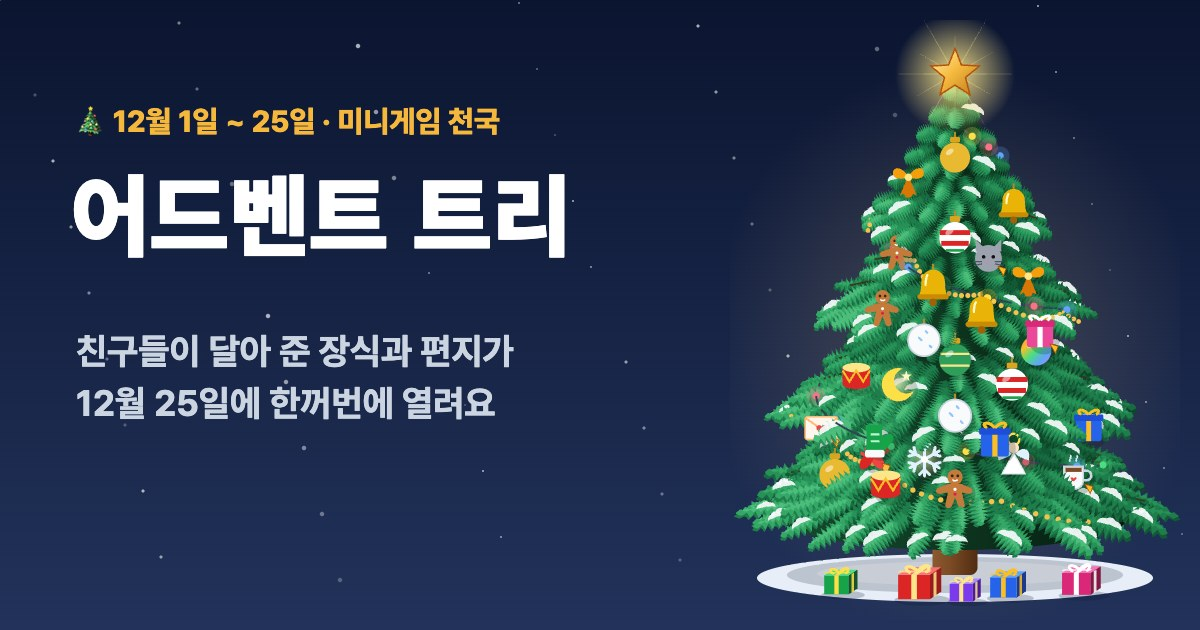
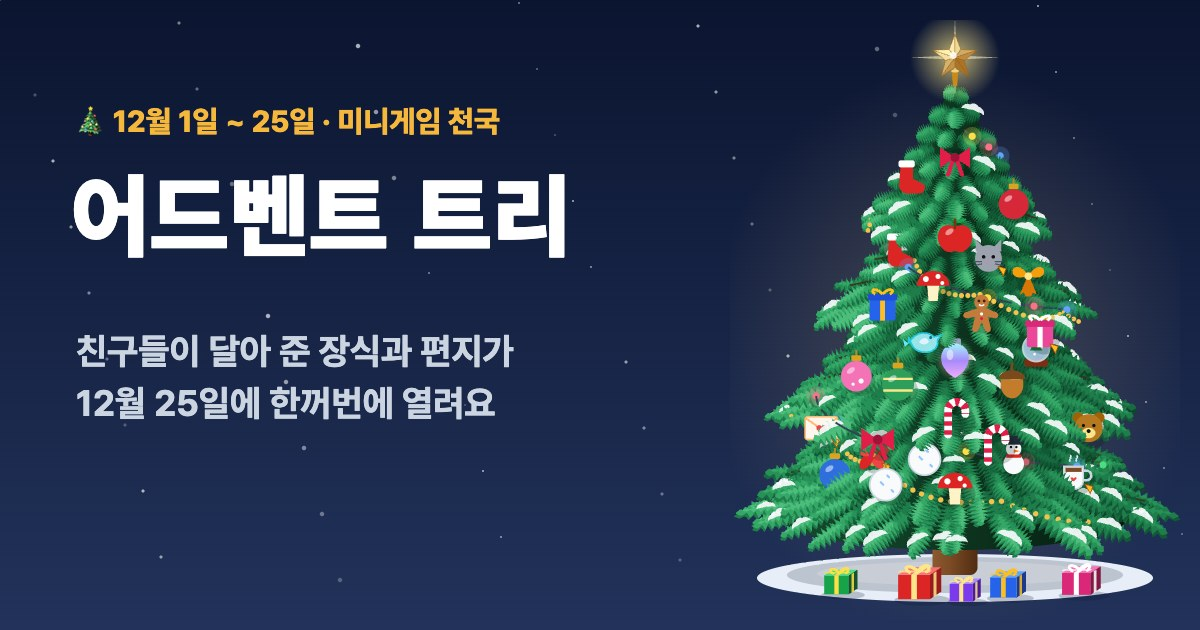
feat(advent-tree): 꼭대기 별을 입체 금속 별로 (면마다 빛·그늘, 받침, 돌리면 같이 돎)
- 평면 별 스티커 대신 면 10개에 빛·그늘이 다른 입체 별 + 꼭대기에 꽂는 금빛 받침
- 다 자란 뒤 안 켜진 별(점선)은 차분한 샴페인색 별로
- 켜진 별: 크게 도는 빛줄기 대신 부드러운 빛 + 천천히 숨 쉬는 십자 반짝임
- 트리를 돌리면 별도 같이 돌아 옆에서는 좁아 보임
- 링크 미리보기 이미지 다시 생성

diff --git a/games/advent-tree.html b/games/advent-tree.html
@@ -1563,10 +1563,43 @@
             return '<circle cx="143" cy="345" r="1.8" fill="#2b1708"/><circle cx="157" cy="345" r="1.8" fill="#2b1708"/><path d="M145 351q5 3.6 10 0" stroke="#2b1708" stroke-width="2" fill="none" stroke-linecap="round"/>';
         }
 
-        function starSvg(star, [sx, sy]) {
-            if (star === 2) return `<circle cx="${sx}" cy="${sy}" r="40" fill="url(#gStarGlow)"/><path d="${starPath(17, 7.4)}" transform="translate(${sx} ${sy})" fill="url(#gGold)" stroke="#b45309" stroke-width="1"/>`;
-            if (star === 1) return `<path d="${starPath(15, 6.5)}" transform="translate(${sx} ${sy})" fill="none" stroke="#fde68a" stroke-width="1.6" stroke-dasharray="3 3" opacity=".8"/>`;
-            return '';
+        // 꼭대기 별: 면마다 빛·그늘이 다른 입체 별 + 꼭대기에 꽂는 금빛 받침.
+        // 1 = 다 자랐지만 아직 안 켜짐(차분한 샴페인색), 2 = 크리스마스에 켜짐(금빛 + 부드러운 빛 + 반짝임)
+        const mixHex = (a, b, t) => `#${[0, 2, 4].map((i) => Math.round(parseInt(a.slice(1 + i, 3 + i), 16) * (1 - t) + parseInt(b.slice(1 + i, 3 + i), 16) * t).toString(16).padStart(2, '0')).join('')}`;
+        const STAR_BODY = {};
+        function starBody(star) {
+            if (STAR_BODY[star]) return STAR_BODY[star];
+            const lit = star === 2;
+            const [dk, lt] = lit ? ['#9a5b0c', '#fff4b8'] : ['#6f6146', '#ece3cb'];
+            const R = 15.5;
+            const r = 6.6;
+            const pt = (deg, rad) => [Math.cos((deg * Math.PI) / 180) * rad, Math.sin((deg * Math.PI) / 180) * rad];
+            const f1 = (x) => Math.round(x * 10) / 10;
+            let faces = '';
+            for (let i = 0; i < 5; i++) {
+                const a = -90 + i * 72;
+                const [ox, oy] = pt(a, R);
+                [[a - 36, a - 14], [a + 36, a + 14]].forEach(([ia, na]) => {
+                    const [ix, iy] = pt(ia, r);
+                    // 왼쪽 위에서 빛이 온다
+                    const shade = 0.5 + 0.5 * Math.cos(((na + 130) * Math.PI) / 180);
+                    faces += `<path d="M0 0L${f1(ix)} ${f1(iy)}L${f1(ox)} ${f1(oy)}Z" fill="${mixHex(dk, lt, 0.15 + 0.85 * shade)}"/>`;
+                });
+            }
+            const stem = `<path d="M-2.2 9L2.2 9 1.4 19-1.4 19Z" fill="${lit ? '#c98a1c' : '#8a7a58'}"/><ellipse cy="9" rx="2.6" ry="1" fill="${lit ? '#f5d27a' : '#b9ab88'}"/>`;
+            const body = `${stem}<g stroke="${dk}" stroke-width=".5" stroke-opacity=".55" stroke-linejoin="round">${faces}</g>`
+                + `<circle cx="-1.2" cy="-1.4" r="${lit ? 2.4 : 1.6}" fill="#fff" opacity="${lit ? 0.85 : 0.5}"/>`;
+            STAR_BODY[star] = body;
+            return body;
+        }
+        // 반짝임: 가늘고 긴 십자 빛
+        const STAR_FLARE = 'M-30 0L0-1.4 30 0 0 1.4ZM0-26L1.2 0 0 26-1.2 0Z';
+        // 트리를 돌리면 별도 같이 돌아서 옆에서 보면 좁아 보인다
+        const starTurn = (rot) => 0.42 + 0.58 * Math.abs(Math.cos((rot * Math.PI) / 180));
+        function starSvg(star, [sx, sy], rot = 0) {
+            if (!star) return '';
+            const glow = star === 2 ? `<circle cx="${sx}" cy="${sy}" r="30" fill="url(#gStarGlow)" opacity=".8"/><path d="${STAR_FLARE}" transform="translate(${sx} ${sy})" fill="#fff7d1" opacity=".55"/>` : '';
+            return `${glow}<g transform="translate(${sx} ${sy}) scale(${Math.round(starTurn(rot) * 100) / 100} 1)">${starBody(star)}</g>`;
         }
 
         const GIFT_TAG = '<path d="M6 6l5 1.4-1.6 4.4z" fill="#fbbf24" stroke="#b45309" stroke-width=".5"/>';
@@ -1755,22 +1788,13 @@
                     const d = Math.cos(t) * R;
                     return { x: 150 + Math.sin(t) * R, y: 369 + d * 0.12, d, sc: b.s * (0.78 + 0.22 * f) * (1 + d / 800), c: b.c };
                 }).sort((a, b) => a.d - b.d);
-                return { f, s, th, items, back: boxes.filter((b) => b.d <= 0), front: boxes.filter((b) => b.d > 0), star: P(150, 36), glow: v.stage >= 3 || v.lights };
+                return { f, s, th, items, back: boxes.filter((b) => b.d <= 0), front: boxes.filter((b) => b.d > 0), star: P(150, 25), glow: v.stage >= 3 || v.lights };
             }
 
             const n1 = (x) => Math.round(x * 10) / 10;
             const n2 = (x) => Math.round(x * 100) / 100;
             const conePath = ([ap, b, hw], k = 1) => `M150 ${ap}L${n1(150 + hw * k)} ${b}A${n1(hw * k)} ${n1(hw * k * K)} 0 0 1 ${n1(150 - hw * k)} ${b}Z`;
             const CORE = 0.9;   // 속 원뿔(어두운 안쪽)은 가지 끝보다 안쪽
-            const RAYS = (() => {
-                let d = '';
-                for (let i = 0; i < 12; i++) {
-                    const a = (i * 30) * RAD;
-                    const L = i % 2 ? 30 : 46;
-                    d += `M${n1(Math.cos(a - 0.07) * 6)} ${n1(Math.sin(a - 0.07) * 6)}L${n1(Math.cos(a) * L)} ${n1(Math.sin(a) * L)}L${n1(Math.cos(a + 0.07) * 6)} ${n1(Math.sin(a + 0.07) * 6)}Z`;
-                }
-                return d;
-            })();
             const boxTag = (b) => `<g transform="translate(${n1(b.x)} ${n1(b.y)}) scale(${n1(b.sc * 100) / 100})">${boxSvg(b.c)}</g>`;
 
             // 멈춘 그림 (300×400 좌표의 SVG 조각)
@@ -1803,8 +1827,7 @@
                     }
                 });
                 g += sc.front.map(boxTag).join('');
-                if (v.star === 2) g += `<path d="${RAYS}" transform="translate(${n1(sc.star[0])} ${n1(sc.star[1])})" fill="#fde68a" opacity=".35"/>`;
-                return g + starSvg(v.star, sc.star);
+                return g + starSvg(v.star, sc.star, o.rot ?? v.face ?? 0);
             }
 
             // 캔버스용 그림 조각(장식·줄기·별·상자)은 SVG를 이미지로 한 번만 만들어 둔다
@@ -1852,7 +1875,7 @@
             function paint(ctx, v, rot, o = {}) {
                 const sc = build(v, rot);
                 const t = o.t ?? 0;
-                path2d = path2d || { frond: new Path2D(FROND), cap: new Path2D(CAP), rays: new Path2D(RAYS) };
+                path2d = path2d || { frond: new Path2D(FROND), cap: new Path2D(CAP), flare: new Path2D(STAR_FLARE) };
                 if (sc.glow) {
                     const [gx, gy] = scaled(150, 220, sc.f);
                     const gr = ctx.createRadialGradient(gx, gy, 0, gx, gy, 190 * sc.f);
@@ -1958,18 +1981,25 @@
                 ctx.restore();
                 sc.front.forEach((b) => drawBox(ctx, b));
                 if (v.star === 2) {
+                    // 켜진 별: 부드러운 빛 + 천천히 숨 쉬는 십자 반짝임
+                    const [sx, sy] = sc.star;
+                    const pulse = o.t == null ? 1 : 0.85 + 0.15 * Math.sin(t * 0.0021);
+                    const gr = ctx.createRadialGradient(sx, sy, 0, sx, sy, 32);
+                    gr.addColorStop(0, 'rgba(253, 230, 138, .75)'); gr.addColorStop(1, 'rgba(253, 230, 138, 0)');
+                    ctx.fillStyle = gr;
+                    ctx.beginPath(); ctx.arc(sx, sy, 32, 0, Math.PI * 2); ctx.fill();
                     ctx.save();
-                    ctx.translate(sc.star[0], sc.star[1]);
-                    ctx.rotate(t * 0.00025);
+                    ctx.translate(sx, sy); ctx.scale(pulse, pulse);
                     ctx.globalCompositeOperation = 'lighter';
-                    ctx.globalAlpha = o.t == null ? 0.35 : 0.28 + 0.12 * Math.sin(t * 0.002);
-                    ctx.fillStyle = '#fde68a';
-                    ctx.fill(path2d.rays);
+                    ctx.globalAlpha = 0.35 + 0.25 * pulse;
+                    ctx.fillStyle = '#fff7d1';
+                    ctx.fill(path2d.flare);
                     ctx.restore();
                 }
                 if (v.star) {
-                    const im = pic(`star|${v.star}`, starSvg(v.star, [0, 0]), '-42 -42 84 84', 252, 252);
-                    if (im) ctx.drawImage(im, sc.star[0] - 42, sc.star[1] - 42, 84, 84);
+                    const im = pic(`star|${v.star}`, starBody(v.star), '-21 -21 42 42', 168, 168);
+                    const k = starTurn(rot);
+                    if (im) ctx.drawImage(im, sc.star[0] - 21 * k, sc.star[1] - 21, 42 * k, 42);
                 }
                 if (o.hint) {
                     // 달 곳 고르는 중: 트리 둘레를 점선으로
